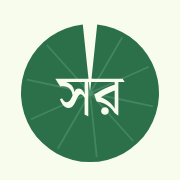
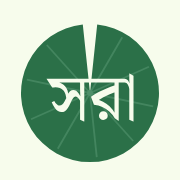
Monogram initials সরা (Sho Ra)
Claude-Session: https://claude.ai/code/session_01BVddaAtzbXtbz8eDZN5RwJ

Changed region(s): [[0.25, 0.4167, 0.75, 0.6944]]

diff --git a/_layouts/default.html b/_layouts/default.html
@@ -9,15 +9,15 @@
   <link rel="preconnect" href="https://fonts.gstatic.com" crossorigin>
   <link href="https://fonts.googleapis.com/css2?family=Newsreader:ital,opsz,wght@0,6..72,400;0,6..72,500;0,6..72,600;1,6..72,400&display=swap" rel="stylesheet">
   <link rel="stylesheet" href="{{ '/assets/css/style.css' | relative_url }}">
-  <link rel="icon" href="{{ '/assets/images/favicon.svg' | relative_url }}?v=3" type="image/svg+xml">
-  <link rel="icon" href="{{ '/assets/images/favicon-32.png' | relative_url }}?v=3" sizes="32x32" type="image/png">
-  <link rel="apple-touch-icon" href="{{ '/assets/images/apple-touch-icon.png' | relative_url }}?v=3">
+  <link rel="icon" href="{{ '/assets/images/favicon.svg' | relative_url }}?v=4" type="image/svg+xml">
+  <link rel="icon" href="{{ '/assets/images/favicon-32.png' | relative_url }}?v=4" sizes="32x32" type="image/png">
+  <link rel="apple-touch-icon" href="{{ '/assets/images/apple-touch-icon.png' | relative_url }}?v=4">
   {% include person-schema.html %}
 </head>
 <body class="{% if page.url == '/' %}home{% else %}inner{% endif %}">
   <div class="page">
     <header class="site-header">
-      <a class="mark monogram" href="{{ '/' | relative_url }}" aria-label="Sanchari Roy, home"><img src="{{ '/assets/images/padma.svg' | relative_url }}" alt="" width="46" height="46"></a>
+      <a class="mark monogram" href="{{ '/' | relative_url }}" aria-label="Sanchari Roy, home"><img src="{{ '/assets/images/padma.svg' | relative_url }}?v=4" alt="" width="46" height="46"></a>
       <nav aria-label="Main">
         {% for item in site.nav %}{% unless item.url == '/' %}
           {% assign external = item.url | slice: 0, 4 %}
